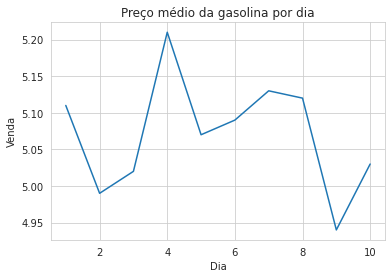
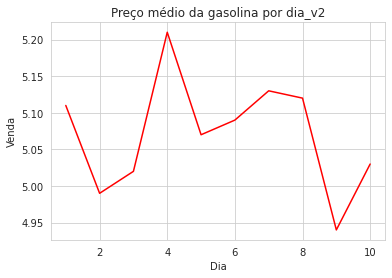
branch teste

diff --git a/gasolina.py b/gasolina.py
@@ -1,0 +1,10 @@
+import pandas as pd
+import seaborn as sns
+import matplotlib.pyplot as plt
+
+data = pd.read_csv('gasolina.csv')
+data.head()
+with sns.axes_style('whitegrid'):
+  grafico = sns.lineplot(data=data, x='dia', y='venda', palette='pastel')
+  grafico.set(title='Preço médio da gasolina por dia', xlabel='Dia', ylabel='Venda')
+plt.savefig('gasolina.png', bbox_inches='tight')
